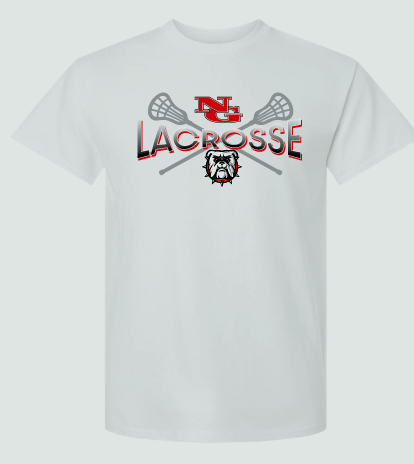
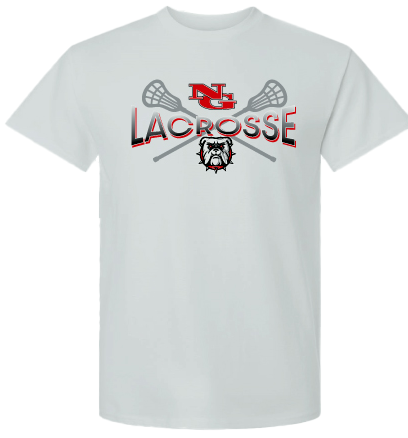
Image Uploads 2

diff --git a/index.html b/index.html
@@ -269,6 +269,7 @@
         let maxDecimals = 2;
         let activeTab = `Spiritwear`;
         let placeholderImageURL = `https://images.unsplash.com/photo-1526170375885-4d8ecf77b99f`;
+        let githubPhotosURL = `https://raw.githubusercontent.com/strawhat19/north-gwinnett-lacrosse-spiritwear/refs/heads/main`;
         let navTabs = [{ url: `#`, name: `Spiritwear` }, /* { url: `#`, name: `Sponsorship` } */]?.map((nt, nti) => ({ ...nt, id: nti + 1, }));
 
         function onNavTabClick(e) {
@@ -313,7 +314,7 @@
                 featured: false,
                 id: `Boys_Lacrosse_NGHS_T_Shirt`,
                 name: `Boys Lacrosse NGHS T-Shirt`,
-                imageURLs: [`https://raw.githubusercontent.com/strawhat19/north-gwinnett-lacrosse-spiritwear/refs/heads/main/assets/official/lacrosse_northgwinnett.png`],
+                imageURLs: [`${githubPhotosURL}/assets/official/lacrosse_northgwinnett_white.png`],
             },
             {
                 url: `#`,
@@ -321,7 +322,7 @@
                 featured: false,
                 id: `Boys_Lacrosse_Vertical_Stick_T_Shirt`,
                 name: `Boys Lacrosse Vertical Stick T-Shirt`,
-                imageURLs: [`https://raw.githubusercontent.com/strawhat19/north-gwinnett-lacrosse-spiritwear/refs/heads/main/assets/official/lacrosssestick_vertical.png`],
+                imageURLs: [`${githubPhotosURL}/assets/official/lacrosssestick_vertical_white.png`],
             },
             {
                 url: `#`,
@@ -329,7 +330,7 @@
                 featured: false,
                 id: `Boys_Lacrosse_NGHS_Bulldogs_T_Shirt`,
                 name: `Boys Lacrosse NGHS Bulldogs T-Shirt`,
-                imageURLs: [`https://raw.githubusercontent.com/strawhat19/north-gwinnett-lacrosse-spiritwear/refs/heads/main/assets/official/NG_bulldogs.png`],
+                imageURLs: [`${githubPhotosURL}/assets/official/NG_bulldogs_white.png`],
             },
             {
                 url: `#`,
@@ -337,7 +338,7 @@
                 featured: false,
                 id: `Boys_Lacrosse_NGHS_Black_Bar_T_Shirt`,
                 name: `Boys Lacrosse NGHS Black Bar T-Shirt`,
-                imageURLs: [`https://raw.githubusercontent.com/strawhat19/north-gwinnett-lacrosse-spiritwear/refs/heads/main/assets/official/northgwinnett_black.png`],
+                imageURLs: [`${githubPhotosURL}/assets/official/northgwinnett_black_bar_white.png`],
             },
             {
                 url: `#`,
@@ -345,7 +346,7 @@
                 featured: true,
                 id: `Boys_Lacrosse_Sticks_T_Shirt`,
                 name: `Boys Lacrosse Sticks T-Shirt`,
-                imageURLs: [`https://raw.githubusercontent.com/strawhat19/north-gwinnett-lacrosse-spiritwear/refs/heads/main/assets/official/sticks_blackshirt.png`],
+                imageURLs: [`${githubPhotosURL}/assets/official/lacrosse_sticks_shirt_white.png`],
             },
             {
                 url: `#`,
